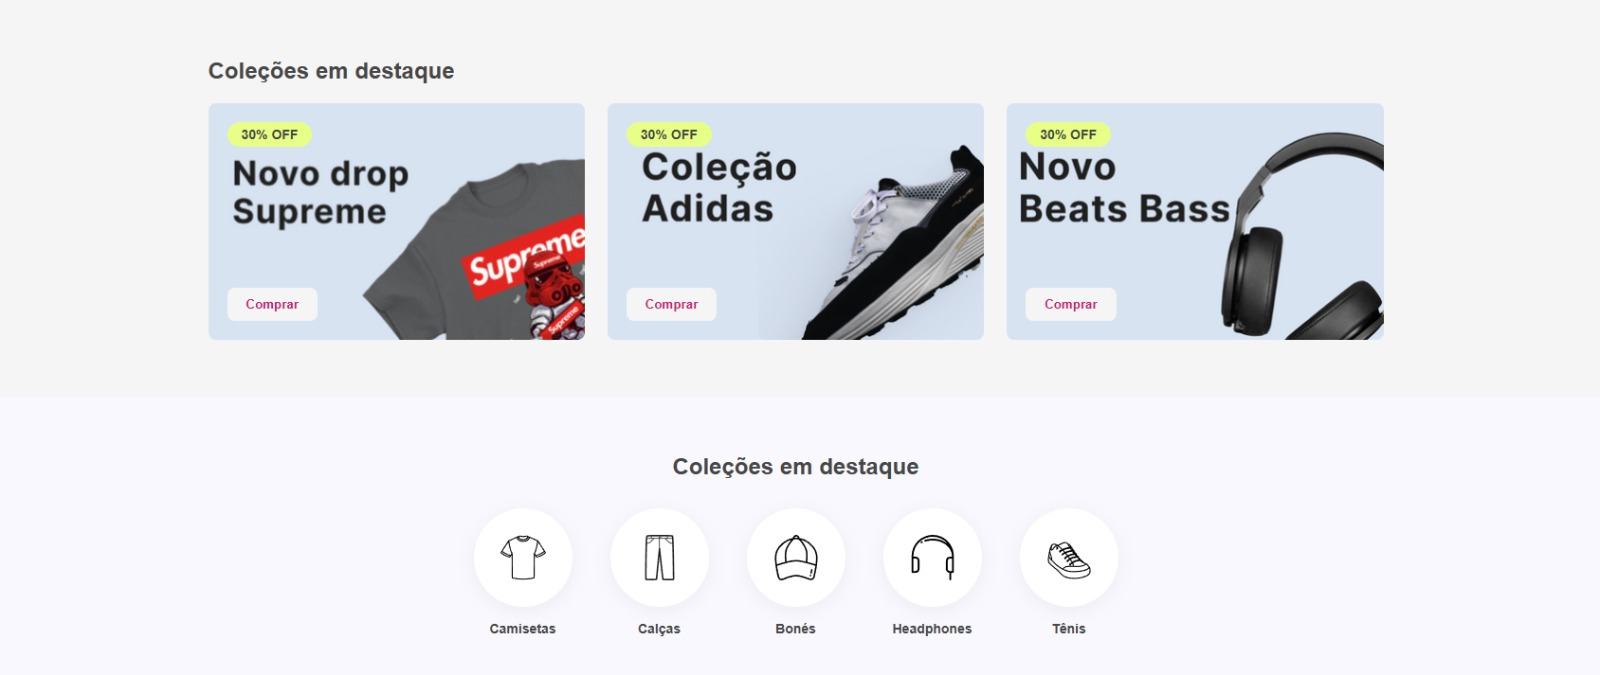
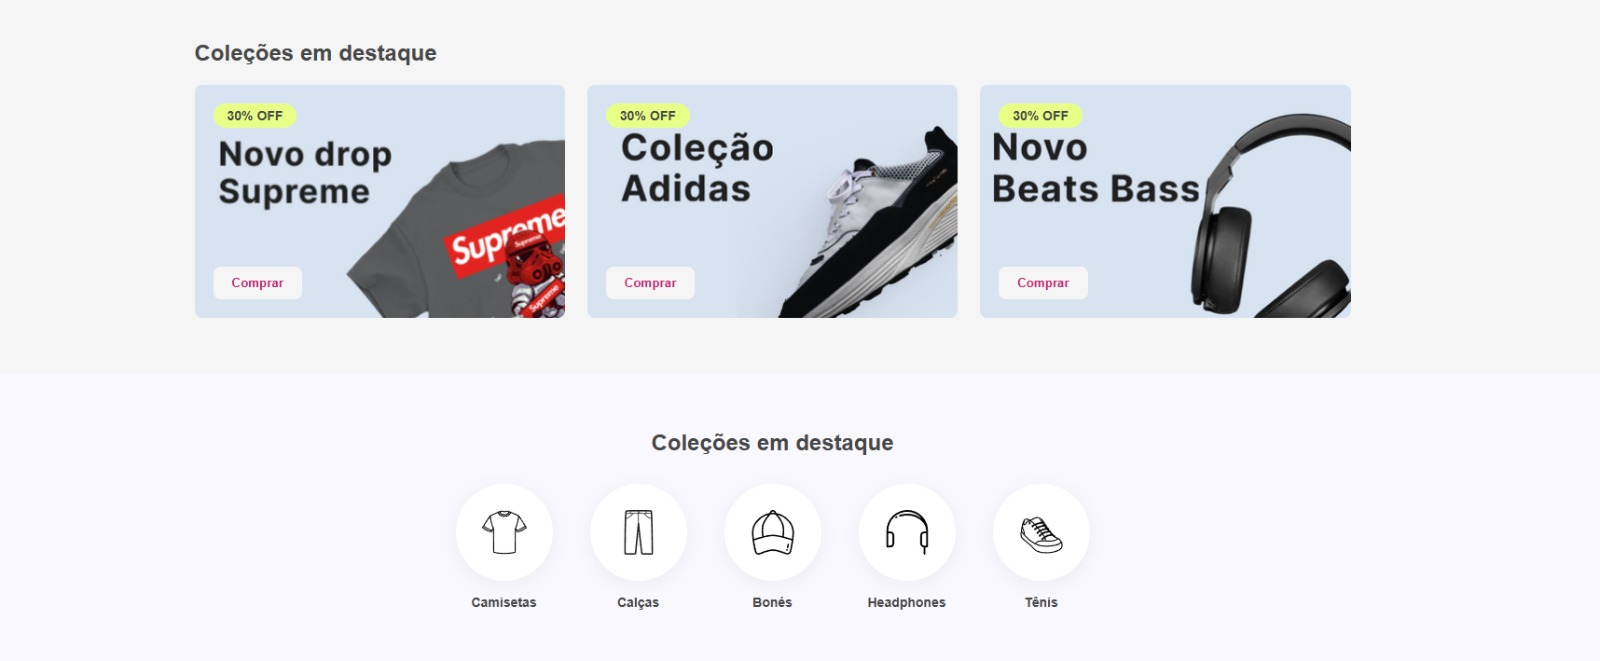
Ajustado responsividade mobile e atualizado imagens de demonstracao pro readme

diff --git a/src/components/styles/ProductCard.css b/src/components/styles/ProductCard.css
@@ -4,7 +4,6 @@
     gap: 10px;
     width: 292px;
     cursor: pointer;
-    margin-bottom: 120px;
 }
 
 .card-image {
@@ -95,7 +94,6 @@
         /* Ocupa a largura toda no mobile */
         gap: 5px;
         box-sizing: border-box;
-        margin-bottom: 70px;
     }
 
     .card-image {

diff --git a/src/components/styles/Gallery.css b/src/components/styles/Gallery.css
@@ -87,6 +87,7 @@
     align-items: center;
     position: relative;
     width: 50%;
+    align-self: stretch;
 }
 
 .gallery-image img {
